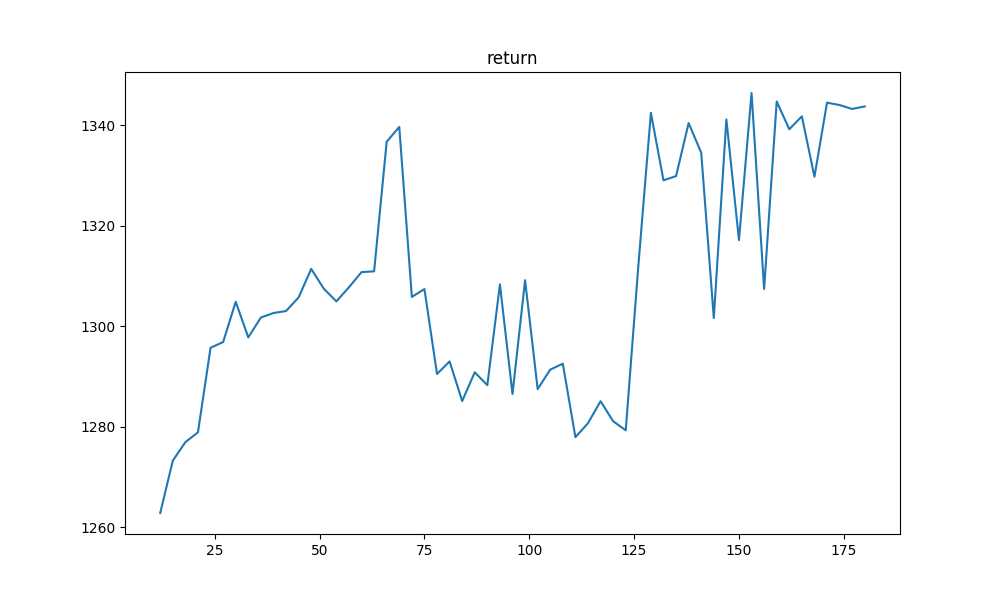
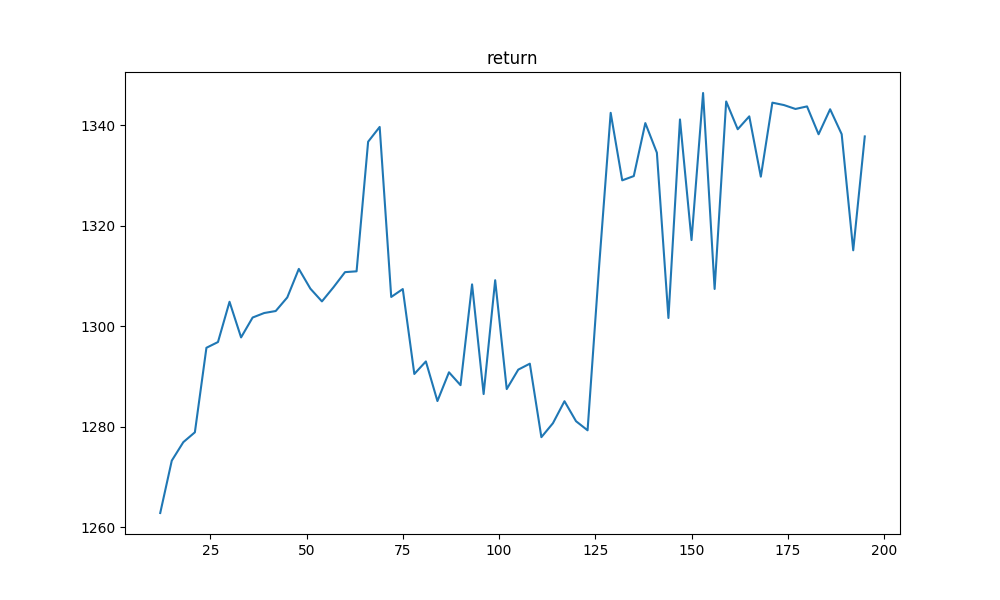
check 19Oct1

diff --git a/trainHyQ_policy.py b/trainHyQ_policy.py
@@ -360,7 +360,7 @@ if __name__ == "__main__":
   parser.add_argument('--stairs', help='add stairs to the bezier environment', type=int, default=0)
   parser.add_argument('--action_dim', help='degree of the spline polynomial used in the training', type=int, default=20)
   parser.add_argument('--directions', help='divising factor of total directions to use', type=int, default=2)
-  parser.add_argument('--curi_learn', help='after how many iteration steps second stage of curriculum learning should start', type=int, default=10)
+  parser.add_argument('--curi_learn', help='after how many iteration steps second stage of curriculum learning should start', type=int, default=20)
   parser.add_argument('--eval_step', help='policy evaluation after how many steps should take place', type=int, default=3)
   parser.add_argument('--domain_Rand', help='add domain randomization', type=int, default=1)
   parser.add_argument('--anti_clock_ori', help='rotate the inclines anti-clockwise', type=bool, default=True)

diff --git a/gym_stoch2_sloped_terrain/envs/HyQ_pybullet_env.py b/gym_stoch2_sloped_terrain/envs/HyQ_pybullet_env.py
@@ -650,7 +650,7 @@ class HyQEnv(gym.Env):
 
 		roll_reward = np.exp(-45 * ((RPY[0]-self.support_plane_estimated_roll) ** 2))
 		pitch_reward = np.exp(-45 * ((RPY[1]-self.support_plane_estimated_pitch) ** 2))
-		yaw_reward = np.exp(-35 * (RPY[2] ** 2))
+		yaw_reward = np.exp(-40 * (RPY[2] ** 2))
 		height_reward = np.exp(-800 * (desired_height - current_height) ** 2)
 	
 
@@ -669,8 +669,7 @@ class HyQEnv(gym.Env):
 			reward = 0
 		else:
 			reward = round(yaw_reward, 4) + round(pitch_reward, 4) + round(roll_reward, 4)\
-					 + round(height_reward,4) + 200 * round(step_distance_x, 4)
-					# - 100 * round(step_distance_y, 4)
+					 + round(height_reward,4) + 100 * round(step_distance_x, 4) - 20 * round(step_distance_y, 4)
 
 			
 			'''
